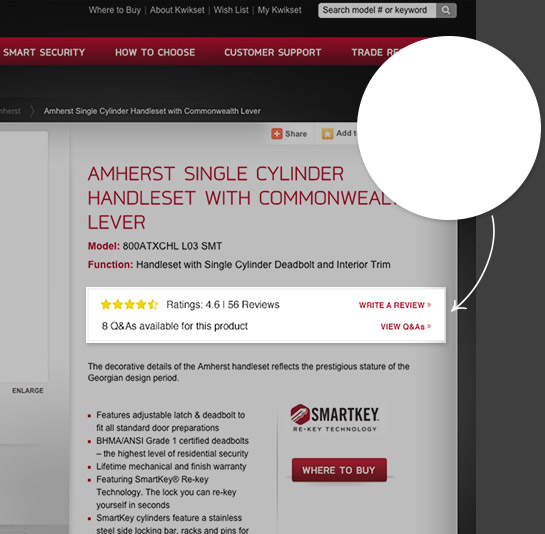
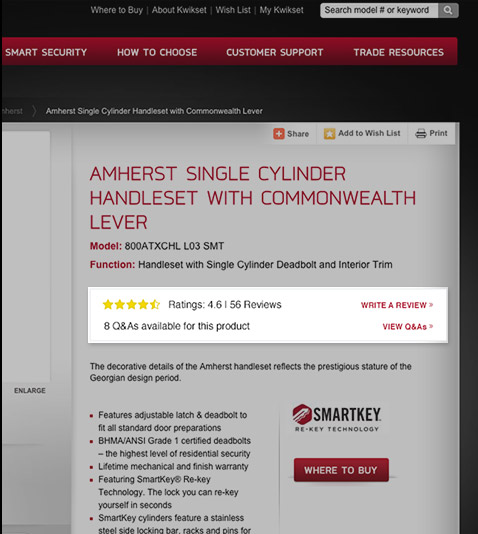
kwikset adustments

diff --git a/src/styles/kwikset.scss b/src/styles/kwikset.scss
@@ -47,15 +47,15 @@ section{@include clearfix();}
   h1{margin:50px auto 70px;background:url(../img/kwikset/txt-how-to-enter.png) no-repeat;width:220px;height:23px;text-indent:-9999px;}
   h2{margin-bottom:16px;}
 }
-.img-how-to-enter{position:relative;width:545px;height:534px;float:left;}
-.img-callout{position:absolute;top:75px;right:20px;width:150px;text-align:center;color:#3d3d3d;font-size:16px;
+.img-how-to-enter{position:relative;width:478px;height:534px;float:left;}
+.img-callout{padding:45px 20px 0;position:absolute;top:40px;right:-70px;width:192px;height:278px;background:url(../img/kwikset/img-callout.png);text-align:center;color:#3d3d3d;font-size:16px;@include box-sizing(border-box);
   h3{font-size:20px;margin-bottom:12px;font-weight:$fw-semibold;text-transform:uppercase;color:$red;}
 }
 .txt-find{background:url(../img/kwikset/txt-find-your-product.png) no-repeat;width:181px;height:13px;text-indent:-9999px}
 .txt-signup{}
 .txt-write{background:url(../img/kwikset/txt-write-your-review.png) no-repeat;width:182px;height:13px;text-indent:-9999px}
 
-.list-how-to-enter{padding-left:70px;margin-left:80px;max-width:350px;float:left;
+.list-how-to-enter{padding-left:70px;margin-left:80px;max-width:350px;position:absolute;left:500px;
   & > li{position:relative;margin-bottom:30px;
 
     &:before{content:'';width:53px;height:53px;border-radius:100%;position:absolute;text-align:center;font-size:24px;font-weight:$fw-light;line-height:53px;left:-70px;background:#5b595a;}
@@ -103,7 +103,7 @@ section{@include clearfix();}
   }
 }
 .search-wrap{width:560px;margin:0 auto;position:relative;
-  h3{font-size:18px;font-weight:$fw-semibold;text-transform:uppercase;position:absolute;top:18px;}
+  h3{font-size:14px;font-weight:$fw-semibold;text-transform:uppercase;position:absolute;top:18px;}
 }
 .input-wrap{position:relative;width:330px;height:48px;border:1px solid #3d3d3d;overflow:hidden;margin-left:225px;
   input[type="text"]{background:#fff;font-weight:$fw-light;font-style:italic;font-size:14px;padding-left:12px;padding-right:12px;position:absolute;left:0;border:none;width:80%;height:100%;

diff --git a/build/css/kwikset.css b/build/css/kwikset.css
@@ -203,20 +203,26 @@ section:after {
 /* line 50, ../../src/styles/kwikset.scss */
 .img-how-to-enter {
   position: relative;
-  width: 545px;
+  width: 478px;
   height: 534px;
   float: left;
 }
 
 /* line 51, ../../src/styles/kwikset.scss */
 .img-callout {
+  padding: 45px 20px 0;
   position: absolute;
-  top: 75px;
-  right: 20px;
-  width: 150px;
+  top: 40px;
+  right: -70px;
+  width: 192px;
+  height: 278px;
+  background: url(../img/kwikset/img-callout.png);
   text-align: center;
   color: #3d3d3d;
   font-size: 16px;
+  -moz-box-sizing: border-box;
+  -webkit-box-sizing: border-box;
+  box-sizing: border-box;
 }
 /* line 52, ../../src/styles/kwikset.scss */
 .img-callout h3 {
@@ -248,7 +254,8 @@ section:after {
   padding-left: 70px;
   margin-left: 80px;
   max-width: 350px;
-  float: left;
+  position: absolute;
+  left: 500px;
 }
 /* line 59, ../../src/styles/kwikset.scss */
 .list-how-to-enter > li {
@@ -408,7 +415,7 @@ section:after {
 }
 /* line 106, ../../src/styles/kwikset.scss */
 .search-wrap h3 {
-  font-size: 18px;
+  font-size: 14px;
   font-weight: normal;
   text-transform: uppercase;
   position: absolute;

diff --git a/build/kwikset.html b/build/kwikset.html
@@ -30,7 +30,7 @@
             <p>Lorem ipsum dolor sit amet, consectetur adipisicing elit, sed do eiusmod tempor incididunt ut labore et dolore magna aliqua. </p>
           </li>
           <li class="step-2">
-            <h2 class="txt-signup">Sign up for a free account</h2>
+            <h2 class="txt-write">Write Your Review</h2>
             <p>Ut enim ad minim veniam, quis nostrud exercitation ullamco laboris nisi ut aliquip ex ea commodo consequat. Duis aute irure dolor in reprehenderit in voluptate velit esse cillum dolore eu fugiat nulla paria.</p>
           </li>
         </ol>
